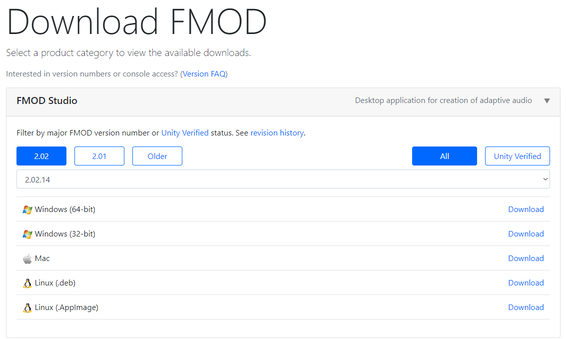
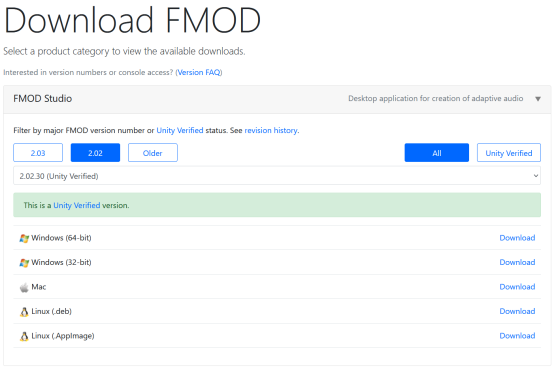
Update README + demoncharge
The `count` parameter,  which was previously unused in the project,  is actually meant to be applied to the volume of the `demoncharge` event.

The README was updated to clarify what FMOD Studio version you should use,  as there's been an uptick of people using 2.03 instead of 2.02.

diff --git a/README.md b/README.md
@@ -3,7 +3,7 @@
 [![Open Issues](https://badgen.net/github/open-issues/Raltyro/Pizza-Tower-fspro-Recreation)](https://github.com/Raltyro/Pizza-Tower-fspro-Recreation/issues)
 [![Open Pull Requests](https://badgen.net/github/open-prs/Raltyro/Pizza-Tower-fspro-Recreation)](https://github.com/Raltyro/Pizza-Tower-fspro-Recreation/pulls)
 [![License](https://img.shields.io/github/license/Raltyro/Pizza-Tower-fspro-Recreation?logo=github)](LICENSE.txt)
-[![FMOD Studio Version](https://badgen.net/badge/FMOD%20Studio%20Version/2.02.00%20-%202.02.17/orange)](https://www.fmod.com)
+[![FMOD Studio Version](https://badgen.net/badge/FMOD%20Studio%20Version/2.02.XX/orange)](https://www.fmod.com)
 
 [![PT FSPRO Repository Image](.github/readme/banner-fspro.png)](https://gamebanana.com/tools/13432)
 
@@ -16,11 +16,11 @@ https://github.com/Raltyro/PT-FSPRO-Recreation/wiki
 
 ## Opening the project
 First of all, the program that needs to open this is [FMOD Studio](https://www.fmod.com) (which what Pizza Tower uses for it's sounds),
-it's free! It need to be the version above than 2.02.00. And ofcourse, you'll need to have a knowledge on how to use FMOD Studio to modify
+it's free! It needs to be any version that begins with 2.02. And of course, you'll need to have a knowledge on how to use FMOD Studio to modify.
 
 [![Downloading FMOD Studio Preview](.github/readme/download-fmod.png)](https://www.fmod.com/download)
 
-[Here a quick Youtube Video on how to use FMOD Studio](https://youtu.be/7A1HMOsD2eU)
+[Here's a quick Youtube Video on how to use FMOD Studio](https://youtu.be/7A1HMOsD2eU)
 
 After installing FMOD Studio, don't open the project yet, it needs to have the Pizza Tower Assets first, to do that,
 extract the Pizza Tower banks files at `sound\Desktop` to wav with the [Unofficial FMOD Bank Extraction Tool](https://mega.nz/folder/42ti1LwQ#1KuKQNjwlJf5IWg89ksCBQ)  
